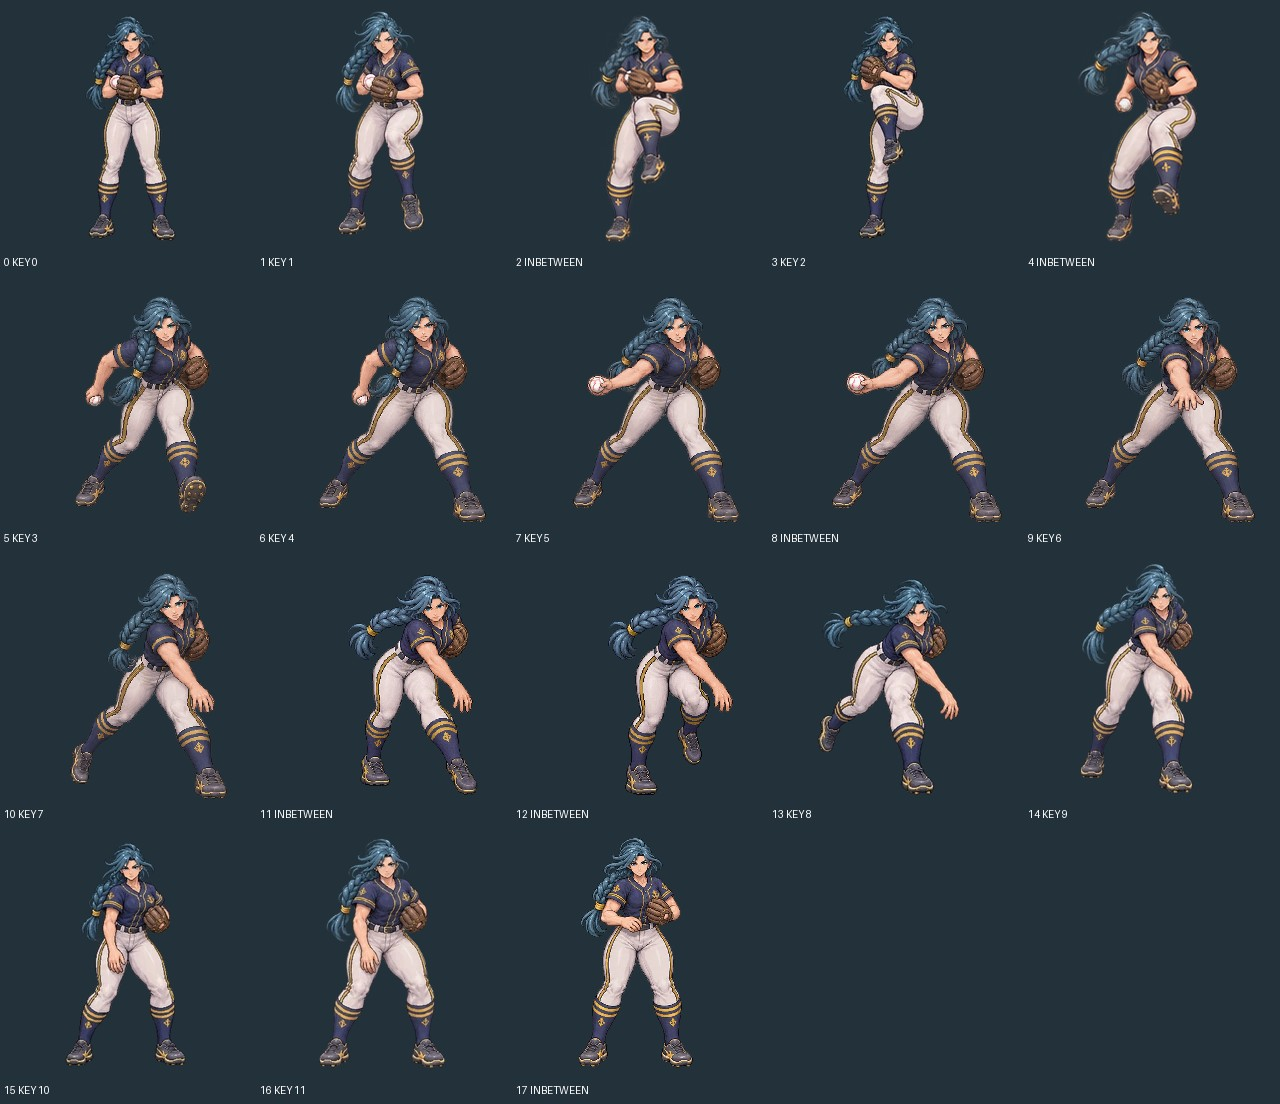
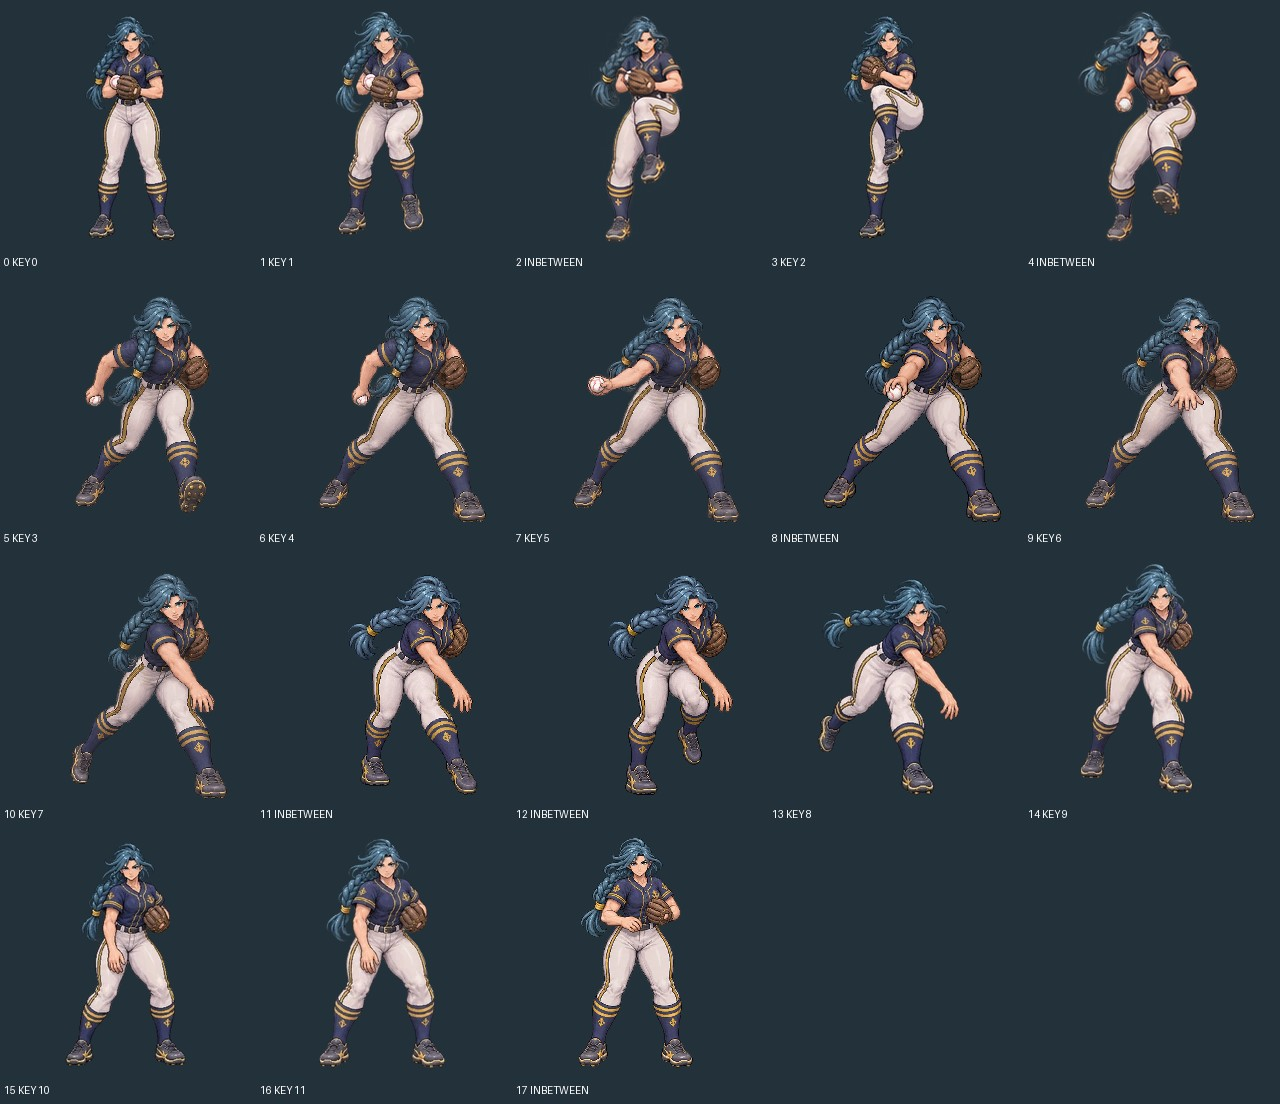
Preserve held Tide forward-arm bridge and selective compiler

Changed region(s): [[0.625, 0.2464, 0.7812, 0.4928]]

diff --git a/tests/tide-release-bridge.test.jsx b/tests/tide-release-bridge.test.jsx
@@ -1,0 +1,23 @@
+// @vitest-environment happy-dom
+import React from 'react';
+import {it,expect,vi} from 'vitest';
+import {render} from '@testing-library/react';
+import BattleScene from '../src/duel/battle-vnext/BattleScene.jsx';
+import {rosterPitcherActor,rosterTimeline} from '../src/duel/battle-vnext/roster-actor.js';
+
+it('shows the held-ball depth bridge before the empty-hand release and first flying ball',()=>{
+ const actor=rosterPitcherActor('tide-vesper','/tide.webp');
+ const timeline=rosterTimeline({duration:2000,freeze:0},actor,false,{delivery:true});
+ const frames=timeline.delivery.drawingAtTick,bridge=frames.lastIndexOf(8);
+ expect(bridge).toBeGreaterThan(0);expect(frames[bridge+1]).toBe(9);
+ const clock=vi.spyOn(performance,'now').mockReturnValue(bridge*1000/60);
+ const props={size:{width:844,height:390},framing:'atbat',phase:'flight',actors:{pitcher:actor},playback:{action:'swing',startedAt:0,rate:1,timeline,pitchReleaseAt:timeline.pitchReleaseAt}};
+ const view=render(<BattleScene {...props}/>);
+ try{
+  expect(view.container.querySelector('.bv-actor-pitcher').dataset.pose).toBe('frame-8');
+  expect(view.container.querySelector('.bv-ball-sprite')).toBeNull();
+  clock.mockReturnValue(timeline.pitchReleaseAt);view.rerender(<BattleScene {...props}/>);
+  expect(view.container.querySelector('.bv-actor-pitcher').dataset.pose).toBe('frame-9');
+  expect(view.container.querySelectorAll('.bv-ball-sprite')).toHaveLength(1);
+ }finally{view.unmount();clock.mockRestore();}
+});

diff --git a/scripts/build-pitcher-inbetweens.py b/scripts/build-pitcher-inbetweens.py
@@ -9,7 +9,7 @@ separate 10x12 export retains the existing 120-tick/60fps authoring contract.
 """
 from pathlib import Path
 from PIL import Image, ImageDraw
-import hashlib, json, math
+import argparse, hashlib, json, math
 
 ROOT=Path(__file__).resolve().parents[1]
 OUT=ROOT/'assets/pitcher-inbetweens-v1'
@@ -28,11 +28,16 @@ def foot(im):
  g=next((g for g in groups if len(g)>2),xs)
  return (g[(len(g)-1)//2]+g[len(g)//2])/2,y
 
-def compile_all():
+def compile_all(only_slug=None):
  base=json.loads((OUT/'base-registration.json').read_text());selection=json.loads((OUT/'selection.json').read_text())
+ if only_slug is not None:
+  if only_slug not in base:raise ValueError('unknown pitcher: '+only_slug)
+  saved_manifest=json.loads((OUT/'manifest.json').read_text());saved_live=json.loads((ROOT/'src/duel/battle-vnext/roster-registration.json').read_text())
+  if sum(r['id']==only_slug for r in saved_manifest['characters'])!=1 or only_slug not in saved_live:raise ValueError('missing or duplicate existing pitcher: '+only_slug)
  records=[];live={}
  for name in ['runtime','atlases','review']:(OUT/name).mkdir(exist_ok=True)
  for slug,old in base.items():
+  if only_slug and slug!=only_slug:continue
   chosen=selection['characters'][slug];source=Image.open(ROOT/chosen['sourceSheet']).convert('RGBA')
   original=Image.open(ROOT/old['file']).convert('RGBA');keys=[cell(original,i,3,4) for i in range(12)]
   def registration(sheet,reference_key,cols,rows,alignment='foot'):
@@ -101,6 +106,16 @@ def compile_all():
   records.append({'id':slug,'runtimeFile':str(runtime.relative_to(ROOT)),'runtimeSHA256':sha(runtime.read_bytes()),'file':str(atlas.relative_to(ROOT)),'atlasSHA256':sha(atlas.read_bytes()),'sourceSheet':chosen['sourceSheet'],'sourceSheetSHA256':sha((ROOT/chosen['sourceSheet']).read_bytes()),'originalRuntimeFile':old['file'],'originalRuntimeSHA256':sha((ROOT/old['file']).read_bytes()),'columns':cols,'rows':rows,'keyDrawings':key_indices,'sourceDrawings':len(frames),'preservedOriginalDrawings':12-len(replacements),'replacedOriginalDrawings':len(replacements),'newInbetweenDrawings':len(selected),'timelineTicks':120,'fps':60,'drawingAtTick':timing,'normalization':{'scale':scale,'translation':[dx,dy]},'batchRegistrations':batches,'drawings':provenance,'runtimeBytes':runtime.stat().st_size})
   print(slug,len(frames),runtime.stat().st_size,flush=True)
  manifest={'version':3,'clientDate':'2026-11-07 KST','authorizationQuote':'모든 투수 확인하고 완성한다음 깃허브 올려줘','previousRelease':{'commit':'3de6257','newDrawings':85},'previousInbetweenReplacements':13,'previousRecoveryDrawings':10,'lowSlotRecoveryDrawings':6,'method':selection['method'],'characters':records,'totalRevisedKeys':sum(x['replacedOriginalDrawings'] for x in records),'totalNewPitcherDrawings':sum(x['newInbetweenDrawings'] for x in records),'totalRuntimeBytes':sum(x['runtimeBytes'] for x in records),'qualityLimit':'Curated additional drawings, not 120 newly authored drawings per character or proof of commercial animation quality. Rejected candidates and earlier HELD histories remain unchanged.'}
+ if only_slug:
+  # Selective corrections preserve every unrelated record and file. Existing
+  # publication metadata describes the roster, not just this one-pose repair.
+  previous=json.loads((OUT/'manifest.json').read_text())
+  previous['characters']=[records[0] if r['id']==only_slug else r for r in previous['characters']]
+  for field,source in [('totalRevisedKeys','replacedOriginalDrawings'),('totalNewPitcherDrawings','newInbetweenDrawings'),('totalRuntimeBytes','runtimeBytes')]:previous[field]=sum(r[source] for r in previous['characters'])
+  manifest=previous
+  previous_live=json.loads((ROOT/'src/duel/battle-vnext/roster-registration.json').read_text());previous_live[only_slug]=live[only_slug];live=previous_live
  (OUT/'manifest.json').write_text(json.dumps(manifest,indent=2)+'\n')
  (ROOT/'src/duel/battle-vnext/roster-registration.json').write_text(json.dumps(live,indent=2)+'\n')
-if __name__=='__main__':compile_all()
+if __name__=='__main__':
+ parser=argparse.ArgumentParser(description=__doc__);parser.add_argument('--slug',help='rebuild only one existing pitcher; preserve the rest of the roster')
+ compile_all(parser.parse_args().slug)

diff --git a/loop/autodev/runs/repair-tide-20261110.md b/loop/autodev/runs/repair-tide-20261110.md
@@ -1,0 +1,20 @@
+# PR96 R4 Tide continuity — before implementation
+
+Round4 of6, global start07:45/deadline09:45KST; current08:53KST, revision1. Actualbase1317119 main; R3HELD independent. Existing approved Tide correction, no new character/camera/design/balance. Root sole writer; read-only asset/code/UX reviewers. Existing skill2dimg2motion read, image_gen new whole-body pose only; crop/common batch registration/packing allowed, limb affine/pose invention prohibited. Cached G024 reference observations reused; no new video observation claim.
+
+Reproduced compact drawing7→8 repeats sideways hand then9 jumps towardcamera; bridge source styles/scale also vary2/4/17. First2x2sheet bottomleft rejected; focused new7→9 candidate must pass common-registration/anatomy/foot/public runtime before adoption. Do not claim all discontinuities solved by one drawing.
+
+|Axis|Impact|Mitigation|
+|---|---|---|
+|UI/layout|yes|Single Tide bridge; allother19assets/registration byte-unchanged; normal actorscale/foot/camera unchanged.|
+|Input|none expected|No inputlock/events; verify actualpitch andnextinput.|
+|Logic/balance|none|Preserve120ticks/60fps, release76/footlanding62, hit/RNG/HP values unchanged.|
+|Save|none|No state/schema changes.|
+|Mobile|yes|568/667/844 landscape, PC actual playback; noframecropping.|
+|Scroll|none|No CSS/global changes.|
+|Flow|yes|Tide windup/release/recover both renderer paths, ballhand sync.|
+|Tests|yes|Selective builder invariants/source provenance, assets+fullsuite/smoke/build/dist; independentcode/motion/staticgate.|
+|Build/deploy|yes|Narrow --slug compilation preservesothermanifestrecords, losslessWebP, budget; onlypublishpassedcandidate.|
+
+## Checkpoint08:56KST
+R4partialbridge8 technical+independentcode+actualmotionPASS. Freshstaticgate gain0/wins0 NOT_IMPROVED, HELD preserveDraft. No main merge. Source .5/1evidence docs/qa/repair-20261110/tide. Full242files1645PASS, smoke/build/dist52.8. Original broaderbodydiscontinuities remain; next coherentidentityredraw, do notscore-shop. ContinueR5frommain1317119.

diff --git a/docs/qa/repair-20261110/tide/README.md b/docs/qa/repair-20261110/tide/README.md
@@ -1,0 +1,9 @@
+# PR96 R4 — single bridge candidate, HELD
+
+Existing Tide correction authorization, not user approval of this specific image. New single whole-body image_gen drawing8 improves lateral→forward ball-hand progression in pose comparison. Cached G024 reference notes reused; no fresh video/biomechanics claim. First2x2 bottomleft candidate rejected. Knee/stride/return body mismatches remain unresolved.
+
+Technical full242files1645testsPASS, related3files12tests+newbridgeballtestPASS, smoke10/build/dist52.8MiBPASS. First sandbox fullrun4EPERM subprocess failures retained; unchanged suite rerun with process execution allowed passes. Independent code verifies19otherrecords+runtime/export byteunchanged; allTide registration/event/timing unchanged. --slug rejects empty/unknown beforewrites.
+
+Actual Chromium .5/1 playback: all18drawings observed,7/8/9included,release before ball,precontactHP60 then59aftercontact,ready0return,engineEq PASS. Validatedenginefixture, not normalmanualprogression. Both sourceatlas and compact pipeline structurally validated; no claim bothrenderers liveplaytested.
+
+Fresh sealed real same-state drawing8 screenshot3.375→3.375,0/8axes, NOT_IMPROVED/notBAR. Runtime sprite is too small for clear static difference. Repository visual gate therefore HELD; do not merge on technical/motion checks alone. Preserve Draft for a broader coherent Tide redraw rather than adding decoration to score. R4revision2 including builderhardening, generation2candidatecalls; priorrejections retained.

diff --git a/docs/art/QUALITY-LOG.md b/docs/art/QUALITY-LOG.md
@@ -24,3 +24,4 @@
 | 2026-11-09 | Readable mixed shop rows and contained equipment art | repair_shop_blind | 1.56 → 2.88 | IMPROVED | R4 캐릭터 존재감 |
 | 2026-11-09 | HELD rest layout candidate1 before environment correction | repair_rest_blind | 3.06 → 2.56 | NOT_IMPROVED | R4 캐릭터 존재감 |
 | 2026-11-09 | Rest final: one out or card upgrade, preserved stadium environment | repair_rest_final_blind | 2.88 → 3.44 | IMPROVED | R4 캐릭터 존재감 |
+| 2026-11-09 | PR96 R4 Tide single depth bridge — HELD | repair_tide_blind fresh sealed | 3.38 → 3.38 | NOT_IMPROVED | R2 UI 그림화 |
